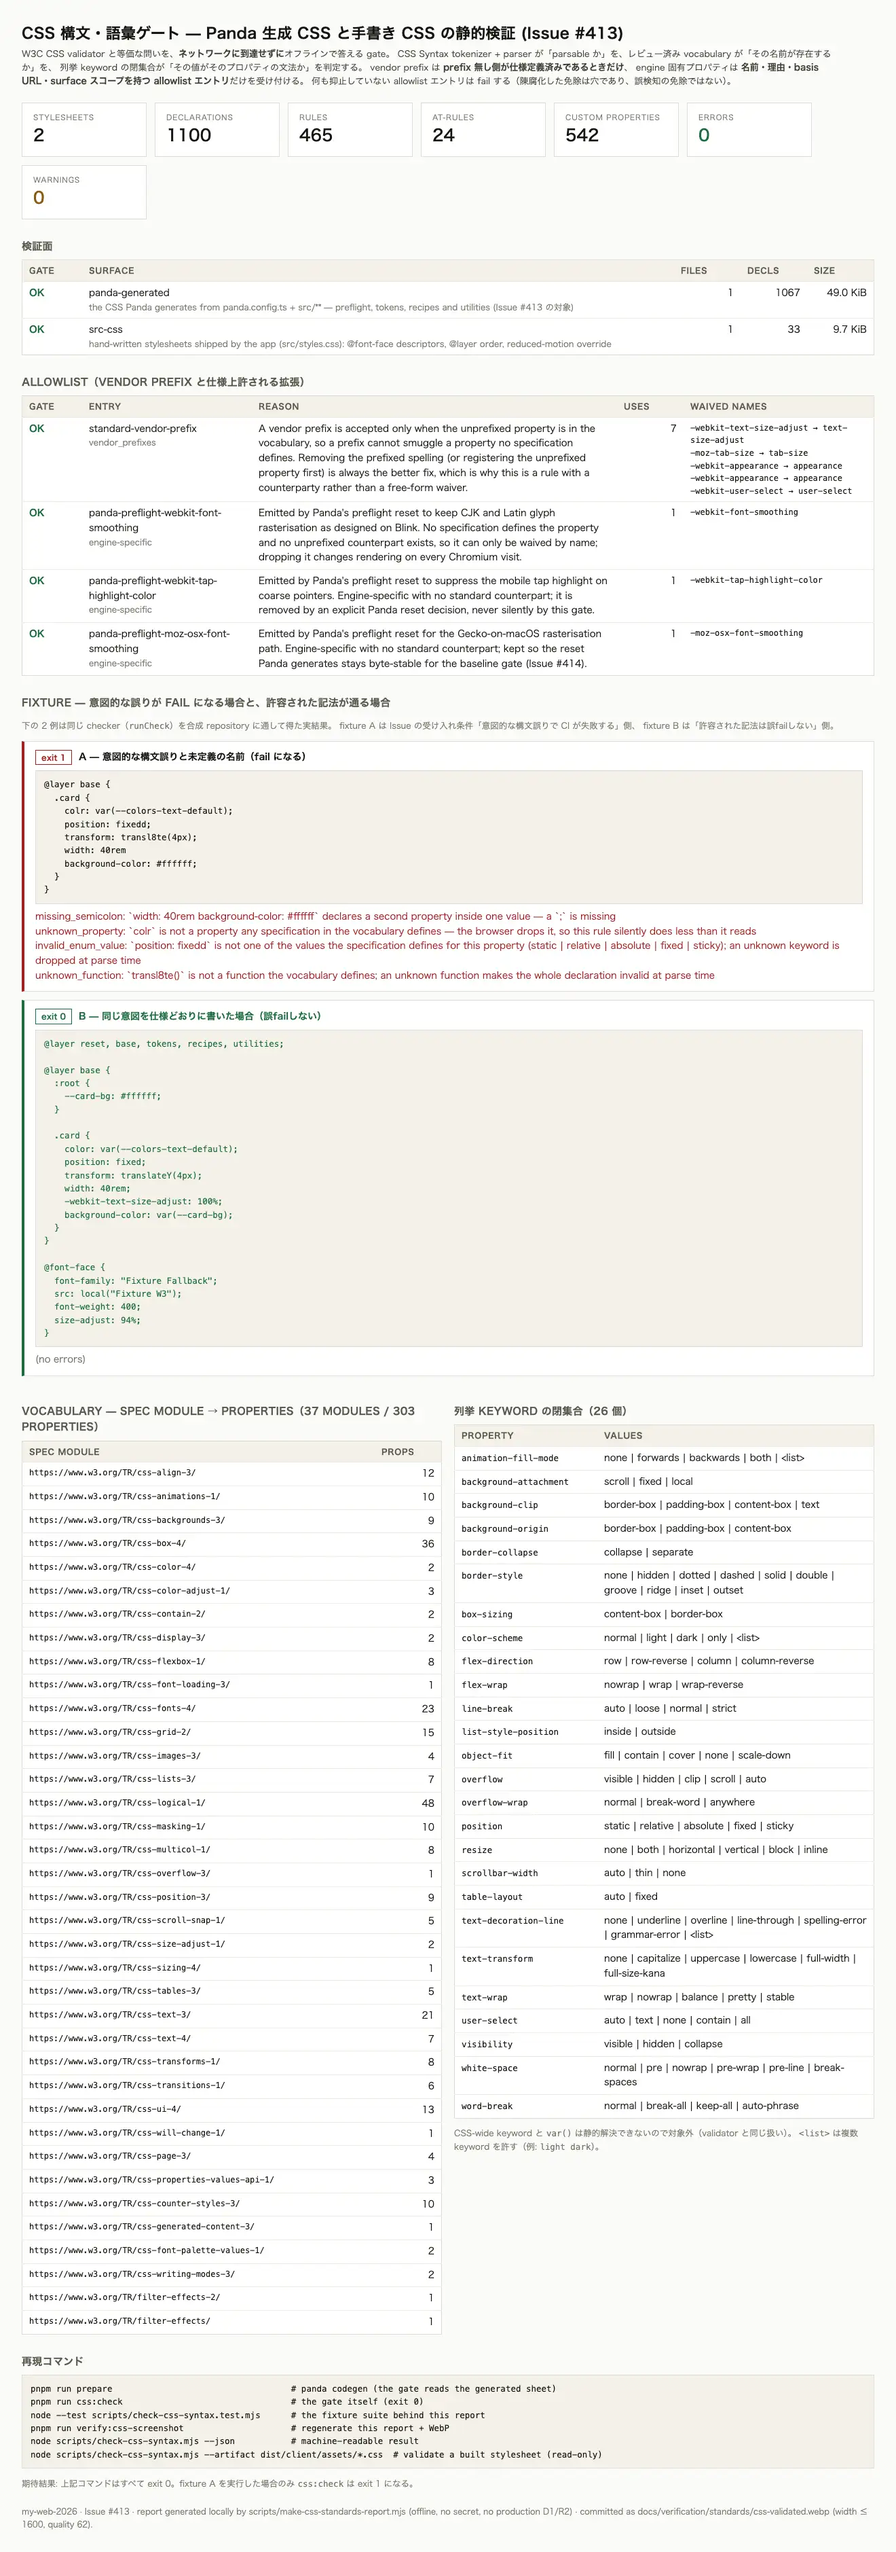
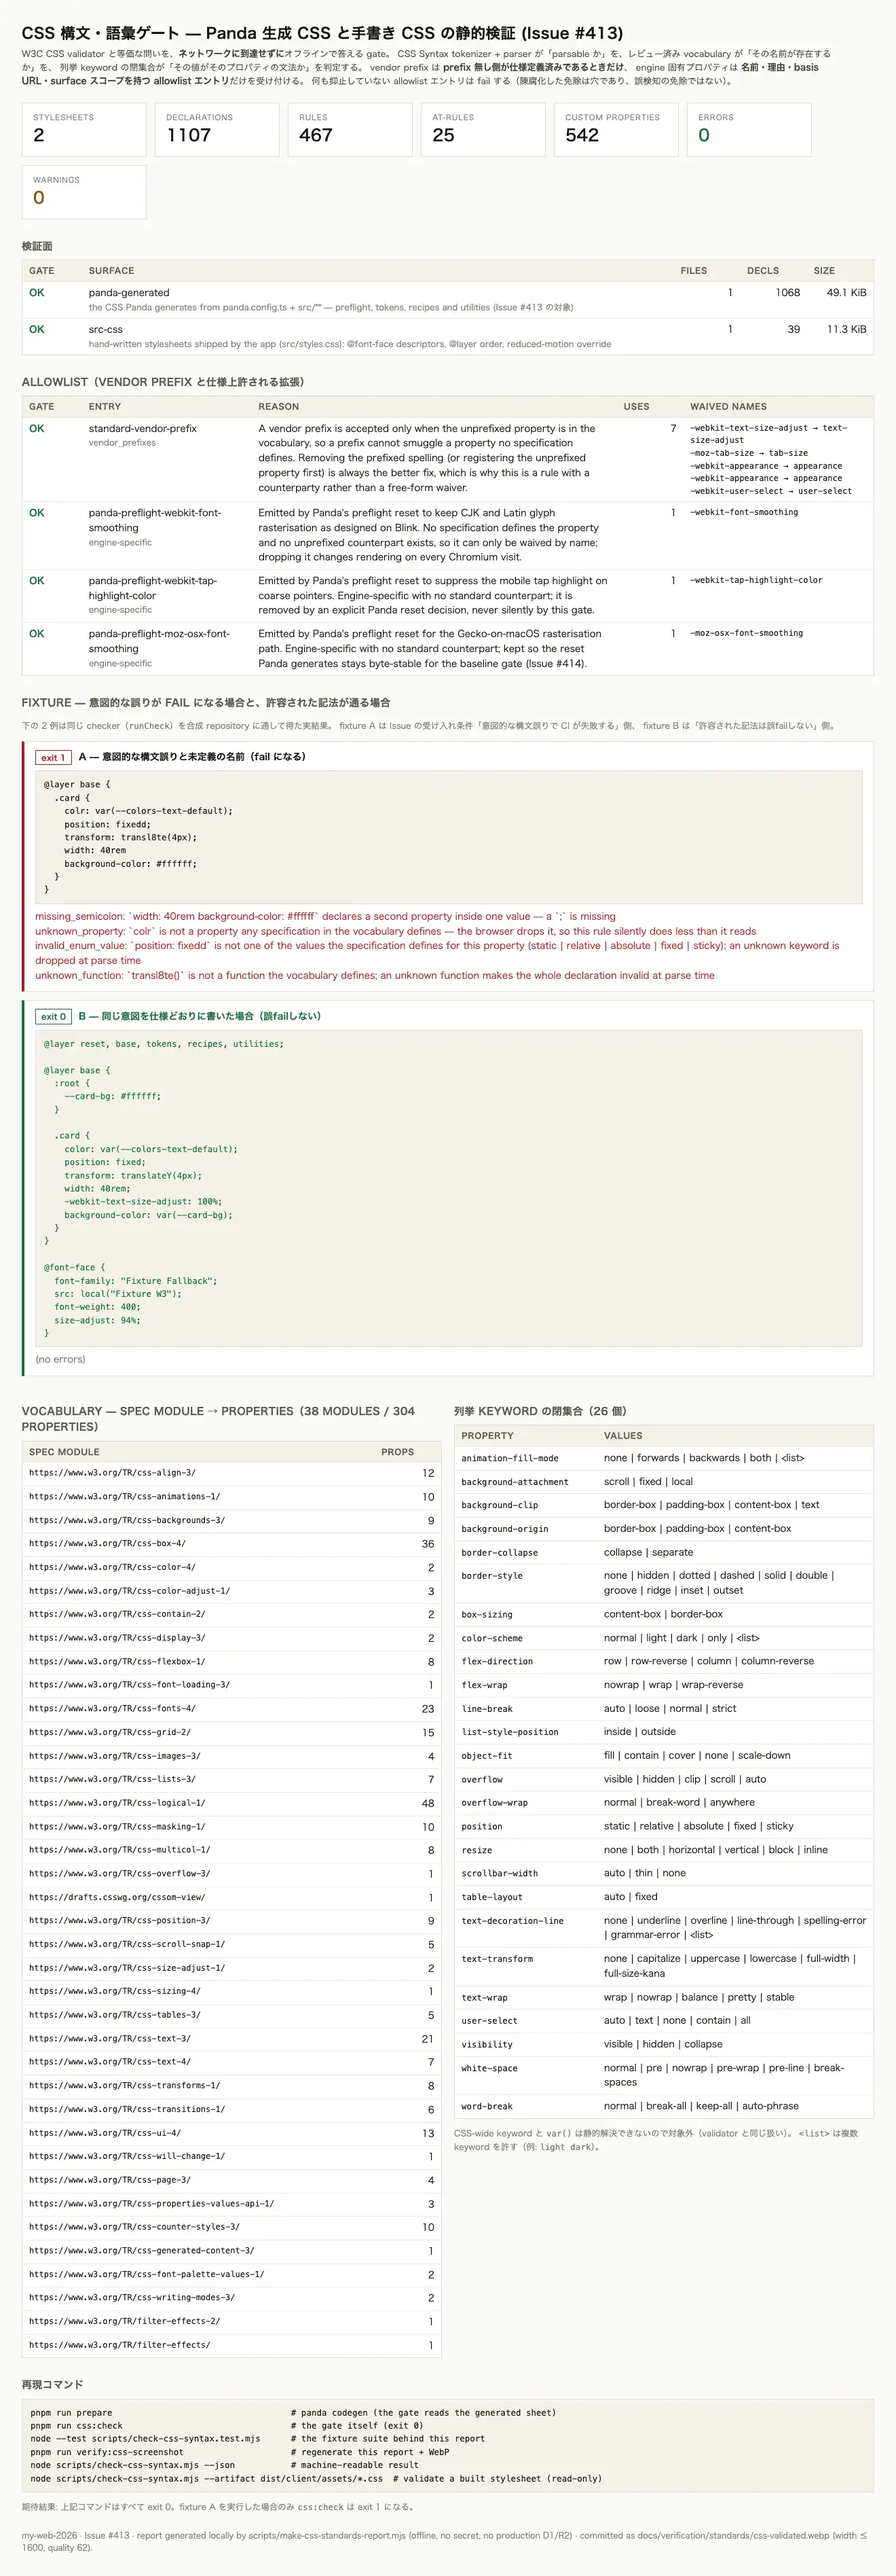
fix(css-gate): declare scroll-behavior and realign the gate record (#413)
The vocabulary did not declare `scroll-behavior`, so the reduced-motion
block in src/styles.css (Issue #403, merged into this branch) was reported
as `unknown_property` and `pnpm run css:check` failed on a spec-defined
property. Register it in the module that defines it (CSSOM View).

Also close the record drift the merge left behind:

- restore `css:check` directly after `compat:check` in validate:fast so
  package.json and quality/profile.yaml state the same order (AGENTS.md §5)
- list `parse_truncated` in the profile's silent_pass_guards, which the
  code and the verification document already list as the sixth guard
- refresh the recorded snapshot (1107 declarations / 467 rules / 25
  at-rules, 304 properties from 38 spec modules) and regenerate the
  WebP report

diff --git a/docs/verification/standards/css-validated.md b/docs/verification/standards/css-validated.md
@@ -130,8 +130,8 @@ pnpm run verify:css-screenshot                              # report HTML + WebP
 再生成した時点の値）:
 
 ```
-surfaces    2 declared · 2 stylesheet(s) · 1100 declarations · 465 rules · 24 at-rules
-vocabulary  303 properties from 37 spec module(s) · 16 at-rules · 79 functions · 26 enumerated value sets
+surfaces    2 declared · 2 stylesheet(s) · 1107 declarations · 467 rules · 25 at-rules
+vocabulary  304 properties from 38 spec module(s) · 16 at-rules · 79 functions · 26 enumerated value sets
 allowlist   4 declared entries covering 10 occurrence(s)
 exit 0      # `errors (n)` 行はエラーが 1 件以上あるときだけ出力される（0 件なら出ない）
 ```
